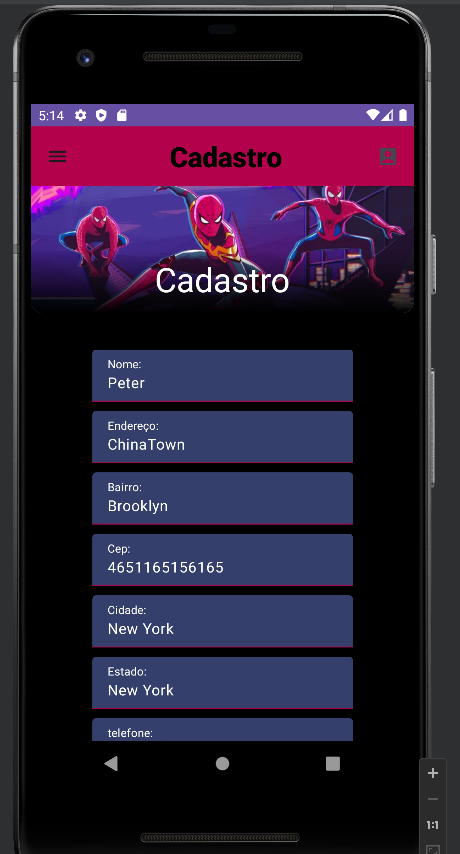
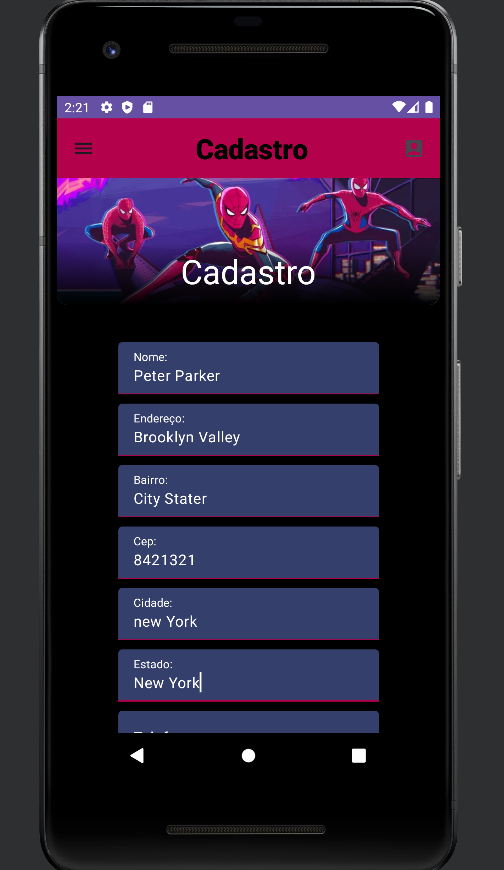
ATTCelular

diff --git a/AppSqlite/app/src/main/java/com/example/appsqlite/sampledata/DBHandler.kt b/AppSqlite/app/src/main/java/com/example/appsqlite/sampledata/DBHandler.kt
@@ -19,7 +19,8 @@ class DBHandler  (context: Context?) :
                 + CEP_COL + " TEXT,"
                 + CIDADE_COL + " TEXT,"
                 + ESTADO_COL + " TEXT,"
-                + TEL_COL + " TEXT)")
+                + TEL_COL + " TEXT,"
+                + CELULAR_COL + " TEXT)")
 
         db.execSQL(query)
     }
@@ -33,6 +34,7 @@ class DBHandler  (context: Context?) :
         coursecidade: String?,
         courseestado: String?,
         coursetel: String?,
+        coursecelular: String?,
     ) {
         val db = this.writableDatabase
         val values = ContentValues()
@@ -44,6 +46,7 @@ class DBHandler  (context: Context?) :
         values.put(CIDADE_COL,coursecidade)
         values.put(ESTADO_COL,courseestado)
         values.put(TEL_COL,coursetel)
+        values.put(CELULAR_COL,coursetel)
 
         db.insert(TABLE_NAME,null , values)
         db.close()
@@ -56,13 +59,13 @@ class DBHandler  (context: Context?) :
     companion object {
         //criando variáveis constantes para nosso banco de dados.
         // a variável abaixo é para o nome do nosso banco de dados.
-        private const val DB_NAME = "coursedb"
+        private const val DB_NAME = "SqlPam"
 
         // abaixo de int está a versão do nosso banco de dados
         private const val DB_VERSION = 1
 
         // a variável abaixo é para o nome da nossa tabela.
-        private const val TABLE_NAME = "mycourses"
+        private const val TABLE_NAME = "Pessoa"
 
         // a variável abaixo é para nossa coluna id.
 
@@ -85,6 +88,8 @@ class DBHandler  (context: Context?) :
         private const val ESTADO_COL = "Estado"
 
         private const val TEL_COL = "Telefone"
+
+        private const val CELULAR_COL = "Celular"
     }
 
 
@@ -114,7 +119,8 @@ class DBHandler  (context: Context?) :
                         cursorCourses.getString(3),
                         cursorCourses.getString(5),
                         cursorCourses.getString(6),
-                        cursorCourses.getString(7)
+                        cursorCourses.getString(7),
+                        cursorCourses.getString(8)
                     )
                 )
             } while (cursorCourses.moveToNext())
@@ -126,6 +132,6 @@ class DBHandler  (context: Context?) :
     }
 }
 
-class CourseModel(string: String?, string1: String?, string2: String?, string3: String?, string4: String?, string5: String?, string6: String?) {
+class CourseModel(string: String?, string1: String?, string2: String?, string3: String?, string4: String?, string5: String?, string6: String?, string8: String?) {
 
 }

diff --git a/AppSqlite/app/src/main/java/com/example/appsqlite/MainActivity.kt b/AppSqlite/app/src/main/java/com/example/appsqlite/MainActivity.kt
@@ -196,6 +196,11 @@ fun Formulario(){
         mutableStateOf(TextFieldValue())
     }
 
+    val coursecelular = remember {
+        mutableStateOf(TextFieldValue())
+    }
+
+
     LazyColumn(
         modifier = Modifier
             .fillMaxSize()
@@ -235,8 +240,13 @@ fun Formulario(){
             }
 
             Spacer(modifier = Modifier.height(10.dp))
-            SimpleTextFieldSample("telefone:", coursetel.value) {
+            SimpleTextFieldSample("Telefone:", coursetel.value) {
                 coursetel.value = it
+            }
+
+            Spacer(modifier = Modifier.height(10.dp))
+            SimpleTextFieldSample("Celular:", coursecelular.value) {
+                coursecelular.value = it
             }
 
 
@@ -250,6 +260,7 @@ fun Formulario(){
                 coursecidade.value,
                 courseestado.value,
                 coursetel.value,
+                coursecelular.value,
                 context
             )
         }
@@ -268,6 +279,7 @@ fun ButtonSample(
     coursecidade: TextFieldValue,
     courseestado: TextFieldValue,
     coursetel: TextFieldValue,
+    coursecelular: TextFieldValue,
     context: Context
 ) {
     Button(onClick = {  dbHandler.addEndereco(
@@ -278,6 +290,7 @@ fun ButtonSample(
         coursecidade.text,
         courseestado.text,
         coursetel.text,
+        coursecelular.text,
     )
         Toast.makeText(context, "Cadastro realizado", Toast.LENGTH_SHORT).show()
     },colors = ButtonDefaults.filledTonalButtonColors(
